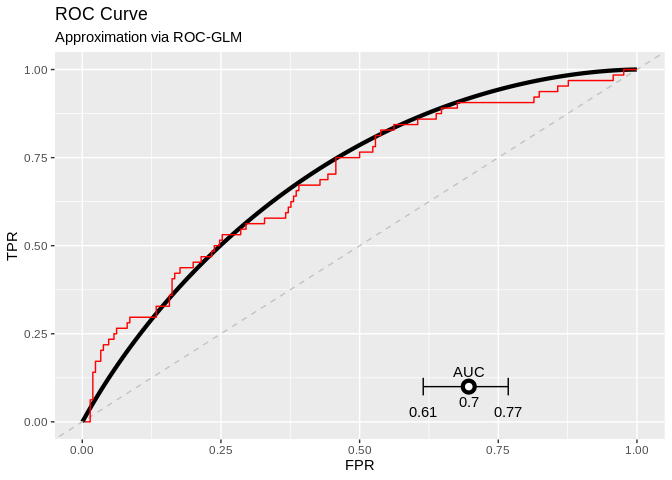
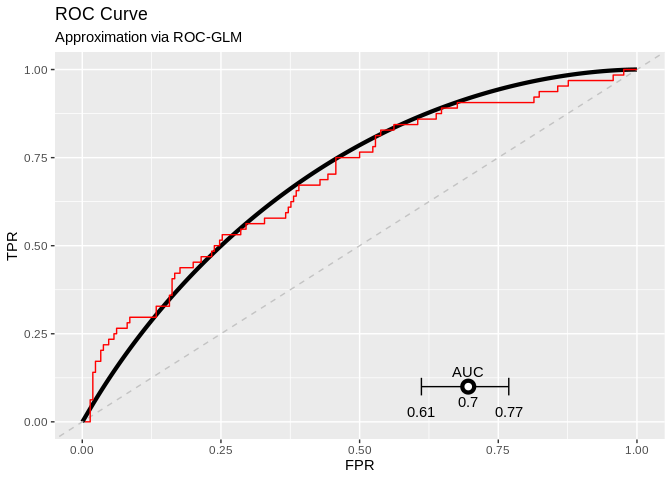
generated

diff --git a/tables/tab-results.tex b/tables/tab-results.tex
@@ -1,11 +1,11 @@
-\newcommand{\cidistlower}{0.6147}
-\newcommand{\cidistupper}{0.768}
+\newcommand{\cidistlower}{0.6114}
+\newcommand{\cidistupper}{0.7689}
 \newcommand{\ciemplower}{0.61}
 \newcommand{\ciempupper}{0.7578}
-\newcommand{\aucdist}{0.6968}
+\newcommand{\aucdist}{0.6959}
 \newcommand{\aucpooled}{0.6887}
-\newcommand{\rocglmparamOne}{0.7916}
-\newcommand{\rocglmparamTwo}{1.1669}
+\newcommand{\rocglmparamOne}{0.7905}
+\newcommand{\rocglmparamTwo}{1.1742}
 \newcommand{\bsemp}{0.1721}
 \newcommand{\ts}{730}
 \newcommand{\nOne}{56}

diff --git a/README.md b/README.md
@@ -36,7 +36,7 @@ using the distributed
 The following contains the preparation of test data and a test model as
 [setup](#setup) while the second part is the [analysis](#analysis).
 
-Last time rendered: 11:27 - 07. Mar 2022 by user runner
+Last time rendered: 13:46 - 07. Mar 2022 by user runner
 
 Autobuild: [![Render
 README](https://github.com/difuture-lmu/datashield-demo-survival/actions/workflows/render-readme.yaml/badge.svg)](https://github.com/difuture-lmu/datashield-demo-survival/actions/workflows/render-readme.yaml)
@@ -92,7 +92,7 @@ remotes::install_github("difuture-lmu/dsPredictBase", upgrade = "never")
 #> Installing 12 packages: gridExtra, dotCall64, data.table, pbapply, mathjaxr, maps, viridis, spam, panelaggregation, metafor, fields, DSI
 #> Installing packages into '/home/runner/work/_temp/Library'
 #> (as 'lib' is unspecified)
-#> * checking for file ‘/tmp/RtmpVRvFxF/remotes90b91abc580f/datashield-dsBaseClient-d22ba51/DESCRIPTION’ ... OK
+#> * checking for file ‘/tmp/RtmpB9oh8l/remotes90b5b2cea0a/datashield-dsBaseClient-d22ba51/DESCRIPTION’ ... OK
 #> * preparing ‘dsBaseClient’:
 #> * checking DESCRIPTION meta-information ... OK
 #> * checking for LF line-endings in source and make files and shell scripts
@@ -105,7 +105,7 @@ remotes::install_github("difuture-lmu/dsPredictBase", upgrade = "never")
 #> (as 'lib' is unspecified)
 #> Skipping install of 'dsBaseClient' from a github remote, the SHA1 (d22ba514) has not changed since last install.
 #>   Use `force = TRUE` to force installation
-#> * checking for file ‘/tmp/RtmpVRvFxF/remotes90b955680e22/difuture-lmu-dsPredictBase-ed79fd1/DESCRIPTION’ ... OK
+#> * checking for file ‘/tmp/RtmpB9oh8l/remotes90b5535cba98/difuture-lmu-dsPredictBase-ed79fd1/DESCRIPTION’ ... OK
 #> * preparing ‘dsPredictBase’:
 #> * checking DESCRIPTION meta-information ... OK
 #> * checking for LF line-endings in source and make files and shell scripts
@@ -121,7 +121,7 @@ remotes::install_github("difuture-lmu/dsPredictBase", upgrade = "never")
 remotes::install_github("difuture-lmu/dsCalibration", upgrade = "never")
 #> Using github PAT from envvar GITHUB_PAT
 #> Downloading GitHub repo difuture-lmu/dsCalibration@HEAD
-#> * checking for file ‘/tmp/RtmpVRvFxF/remotes90b9193d3bea/difuture-lmu-dsCalibration-1805632/DESCRIPTION’ ... OK
+#> * checking for file ‘/tmp/RtmpB9oh8l/remotes90b53dad49c/difuture-lmu-dsCalibration-1805632/DESCRIPTION’ ... OK
 #> * preparing ‘dsCalibration’:
 #> * checking DESCRIPTION meta-information ... OK
 #> * checking for LF line-endings in source and make files and shell scripts
@@ -132,7 +132,7 @@ remotes::install_github("difuture-lmu/dsCalibration", upgrade = "never")
 remotes::install_github("difuture-lmu/dsROCGLM", upgrade = "never")
 #> Using github PAT from envvar GITHUB_PAT
 #> Downloading GitHub repo difuture-lmu/dsROCGLM@HEAD
-#> * checking for file ‘/tmp/RtmpVRvFxF/remotes90b9363f2ce5/difuture-lmu-dsROCGLM-c951c0c/DESCRIPTION’ ... OK
+#> * checking for file ‘/tmp/RtmpB9oh8l/remotes90b52da1ffe1/difuture-lmu-dsROCGLM-c951c0c/DESCRIPTION’ ... OK
 #> * preparing ‘dsROCGLM’:
 #> * checking DESCRIPTION meta-information ... OK
 #> * checking for LF line-endings in source and make files and shell scripts
@@ -253,10 +253,10 @@ load(here::here("data/mod.Rda"))
 ## Push the model to the servers (upload takes ~11 Minutes):
 t0 = proc.time()
 pushObject(conn, obj = mod)
-#> [2022-03-07 11:31:09] Your object is bigger than 1 MB (14.4 MB). Uploading larger objects may take some time.
+#> [2022-03-07 13:49:55] Your object is bigger than 1 MB (14.4 MB). Uploading larger objects may take some time.
 (t0 = proc.time() - t0)
 #>    user  system elapsed 
-#> 115.401  49.288 784.046
+#> 113.497  52.915 784.454
 datashield.symbols(conn)
 #> $ds1
 #> [1] "D"   "mod"
@@ -417,25 +417,25 @@ sqrt(2 * log(1.25 / delta)) * l2s / epsilon
 roc_glm = dsROCGLM(conn, "D$valid", "pinv", epsilon = epsilon,
   delta = delta, dat_name = "D", seed_object = "D$age")
 #> 
-#> [2022-03-07 11:44:53] L2 sensitivity is: 0.016
+#> [2022-03-07 14:03:24] L2 sensitivity is: 0.016
 #> 
-#> [2022-03-07 11:44:56] Initializing ROC-GLM
+#> [2022-03-07 14:03:26] Initializing ROC-GLM
 #> 
-#> [2022-03-07 11:44:56] Host: Received scores of negative response
-#> [2022-03-07 11:44:56] Receiving negative scores
-#> [2022-03-07 11:44:59] Host: Pushing pooled scores
-#> [2022-03-07 11:45:03] Server: Calculating placement values and parts for ROC-GLM
-#> [2022-03-07 11:45:06] Server: Calculating probit regression to obtain ROC-GLM
-#> [2022-03-07 11:45:09] Deviance of iter1=32.6342
-#> [2022-03-07 11:45:13] Deviance of iter2=41.2037
-#> [2022-03-07 11:45:16] Deviance of iter3=44.444
-#> [2022-03-07 11:45:19] Deviance of iter4=44.6241
-#> [2022-03-07 11:45:22] Deviance of iter5=44.6246
-#> [2022-03-07 11:45:26] Deviance of iter6=44.6246
-#> [2022-03-07 11:45:26] Host: Finished calculating ROC-GLM
-#> [2022-03-07 11:45:26] Host: Cleaning data on server
-#> [2022-03-07 11:45:29] Host: Calculating AUC and CI
-#> [2022-03-07 11:45:45] Finished!
+#> [2022-03-07 14:03:26] Host: Received scores of negative response
+#> [2022-03-07 14:03:26] Receiving negative scores
+#> [2022-03-07 14:03:28] Host: Pushing pooled scores
+#> [2022-03-07 14:03:30] Server: Calculating placement values and parts for ROC-GLM
+#> [2022-03-07 14:03:32] Server: Calculating probit regression to obtain ROC-GLM
+#> [2022-03-07 14:03:34] Deviance of iter1=32.6342
+#> [2022-03-07 14:03:36] Deviance of iter2=41.1218
+#> [2022-03-07 14:03:39] Deviance of iter3=44.4089
+#> [2022-03-07 14:03:41] Deviance of iter4=44.5915
+#> [2022-03-07 14:03:43] Deviance of iter5=44.592
+#> [2022-03-07 14:03:45] Deviance of iter6=44.592
+#> [2022-03-07 14:03:45] Host: Finished calculating ROC-GLM
+#> [2022-03-07 14:03:45] Host: Cleaning data on server
+#> [2022-03-07 14:03:47] Host: Calculating AUC and CI
+#> [2022-03-07 14:03:57] Finished!
 roc_glm
 #> 
 #> ROC-GLM after Pepe:
@@ -444,7 +444,7 @@ roc_glm
 #> 
 #>  AUC and 0.95 CI: [0.61----0.7----0.77]
 roc_glm$ci
-#> [1] 0.6146840 0.7679554
+#> [1] 0.6114123 0.7689032
 
 gg_distr_roc = plot(roc_glm)
 gg_distr_roc
@@ -494,7 +494,7 @@ auc = pROC::auc(dat_test$valid, 1 - probs)
 #> Setting direction: controls < cases
 c(auc_emp = auc, auc_distr_roc_glm = roc_glm$auc)
 #>           auc_emp auc_distr_roc_glm 
-#>         0.6886905         0.6967615
+#>         0.6886905         0.6958664
 
 source(here::here("R/helper.R"))
 (ci_emp = logitToAUC(pepeCI(toLogit(auc), 0.05, deLongVar(1 - probs, dat_test$valid))))
